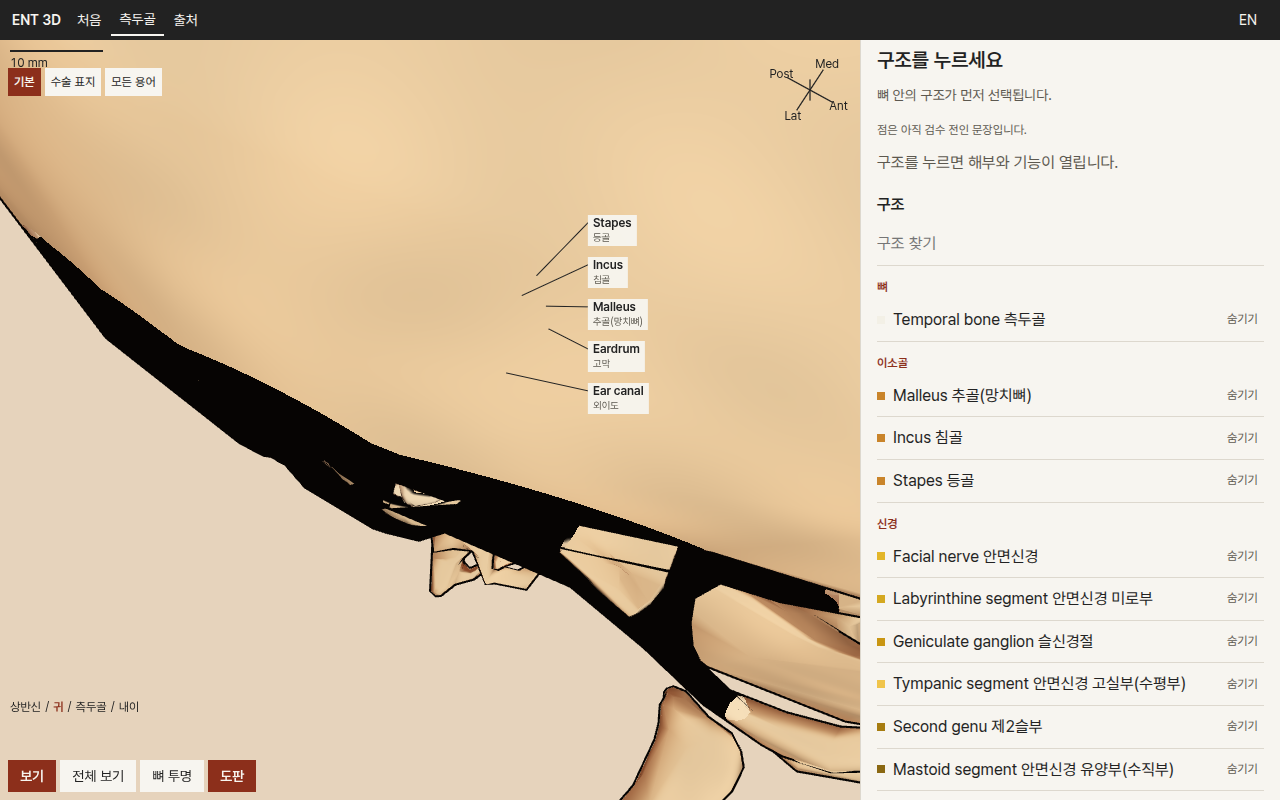
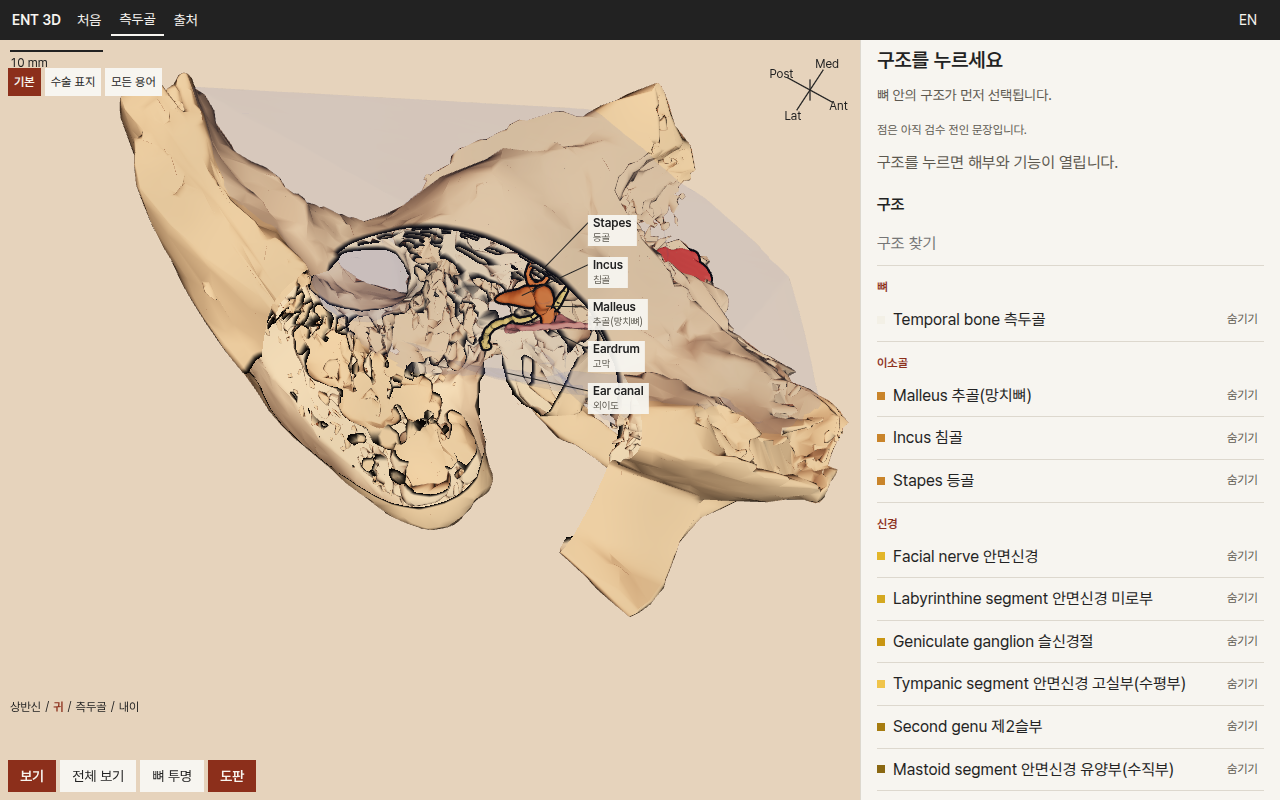
Hide the head skull while the specimen is shown.
The 46 mm clip left the desktop bone view looking into the skull interior. The skull stays hidden in those views, as before that clip, and the clip uniforms are gone.

diff --git a/src/shared/viewer/Viewer.ts b/src/shared/viewer/Viewer.ts
@@ -159,8 +159,6 @@ export class EntViewer {
   private flashUntil = 0;
   private upperBody: THREE.Mesh | null = null;
   private skullLayer: THREE.Mesh | null = null;
-  private temporalCenter = new THREE.Vector3();
-  private temporalRadius = { value: 0 };
   private skinMesh: THREE.Mesh | null = null;
   private style: RenderStyle = 'atlas';
   private hullsOn = true;
@@ -912,7 +910,6 @@ export class EntViewer {
 
   private refreshLook(): void {
     for (const record of this.records.values()) this.applyLook(record);
-    this.syncSkullTemporalClip();
     this.syncCallouts();
     this.invalidate();
   }
@@ -1332,8 +1329,8 @@ export class EntViewer {
       const mesh = found[0];
       if (!mesh) return;
       const id = kind === 'auricle' ? 'upper-body' : kind === 'skin' ? 'skin' : 'skull-layer';
-      const cutScale = kind === 'skull' ? 0 : kind === 'auricle' ? 0.22 : 1;
-      mesh.material = this.makeEntryMaterial(id, kind === 'auricle' ? '#E7A888' : kind === 'skin' ? '#E7A888' : '#F6D9A4', cutScale, false);
+      const cutScale = kind === 'skull' ? 0.98 : kind === 'auricle' ? 0.22 : 1;
+      mesh.material = this.makeEntryMaterial(id, kind === 'auricle' ? '#E7A888' : kind === 'skin' ? '#E7A888' : '#F6D9A4', cutScale, kind === 'skull');
       mesh.matrixAutoUpdate = false;
       mesh.updateMatrix();
       if (!mesh.geometry.boundingBox) mesh.geometry.computeBoundingBox();
@@ -1420,30 +1417,9 @@ export class EntViewer {
     const open = this.cutRadius.value > 8;
     if (this.skinMesh) this.skinMesh.visible = !open;
     if (this.upperBody) this.upperBody.visible = !open;
-    this.syncSkullTemporalClip();
+    // The skull sits inside the skin. Its outline shows through the occiput crease, so it stays hidden.
+    if (this.skullLayer) this.skullLayer.visible = false;
     this.paintAuricle(open);
-  }
-
-  /** Hide the skull's own temporal bone wherever the specimen bone is on screen. */
-  private syncSkullTemporalClip(): void {
-    const bone = this.records.get('bone');
-    const showSpecimen = Boolean(bone?.object.visible);
-    if (this.skullLayer) this.skullLayer.visible = showSpecimen;
-    if (!showSpecimen || !bone) {
-      this.temporalRadius.value = 0;
-      return;
-    }
-    if (!this.eacMm) {
-      this.temporalRadius.value = 0;
-      return;
-    }
-    this.temporalCenter.set(this.eacMm[0] + this.offset[0], this.eacMm[1] + this.offset[1], this.eacMm[2] + this.offset[2]);
-    this.temporalRadius.value = 46;
-    const material = this.skullLayer?.material;
-    if (material instanceof THREE.ShaderMaterial) {
-      if (material.uniforms.uTemporalCenter) material.uniforms.uTemporalCenter.value = this.temporalCenter;
-      if (material.uniforms.uTemporalRadius) material.uniforms.uTemporalRadius.value = this.temporalRadius.value;
-    }
   }
 
   renderStyle(): RenderStyle {
@@ -1564,8 +1540,6 @@ export class EntViewer {
         detail: atlasDetail(id),
         reveal,
       });
-      material.uniforms.uTemporalCenter = { value: this.temporalCenter };
-      material.uniforms.uTemporalRadius = this.temporalRadius;
       if (id === 'skin') {
         material.polygonOffset = true;
         material.polygonOffsetFactor = -2;
@@ -1592,17 +1566,14 @@ export class EntViewer {
       shader.uniforms.uCutRadius = radius;
       shader.uniforms.uCutScale = { value: cutScale };
       shader.uniforms.uReveal = { value: reveal ? 1 : 0 };
-      shader.uniforms.uTemporalCenter = { value: this.temporalCenter };
-      shader.uniforms.uTemporalRadius = this.temporalRadius;
       shader.vertexShader = shader.vertexShader
         .replace('#include <common>', '#include <common>\nvarying vec3 vEntWorld;')
         .replace('#include <project_vertex>', '#include <project_vertex>\nvEntWorld = (modelMatrix * vec4(transformed, 1.0)).xyz;');
       shader.fragmentShader = shader.fragmentShader
-        .replace('#include <common>', '#include <common>\nvarying vec3 vEntWorld;\nuniform vec3 uCutCenter;\nuniform float uCutRadius;\nuniform float uCutScale;\nuniform float uReveal;\nuniform vec3 uTemporalCenter;\nuniform float uTemporalRadius;')
+        .replace('#include <common>', '#include <common>\nvarying vec3 vEntWorld;\nuniform vec3 uCutCenter;\nuniform float uCutRadius;\nuniform float uCutScale;\nuniform float uReveal;')
         .replace(
           '#include <dithering_fragment>',
           `float entDist = distance(vEntWorld, uCutCenter);
-          if (uTemporalRadius > 1.0 && distance(vEntWorld, uTemporalCenter) < uTemporalRadius) discard;
           if (uReveal > 0.5) {
             if (uCutRadius < 1.0 || entDist > uCutRadius * max(uCutScale, 0.01)) discard;
           } else if (uCutScale > 0.0 && uCutRadius > 0.0 && entDist < uCutRadius * uCutScale) discard;

diff --git a/src/shared/viewer/netter-material.ts b/src/shared/viewer/netter-material.ts
@@ -121,8 +121,6 @@ uniform vec3 uCutCenter;
 uniform float uCutRadius;
 uniform float uCutScale;
 uniform float uReveal;
-uniform vec3 uTemporalCenter;
-uniform float uTemporalRadius;
 uniform float uViewClip;
 uniform float uViewRadius;
 uniform vec3 uEndA;
@@ -182,7 +180,6 @@ void main() {
       if (along > 0.5 && along < axisLen + uViewRadius * 0.45 && radial < uViewRadius) discard;
     }
   }
-  if (uTemporalRadius > 1.0 && distance(vWorld, uTemporalCenter) < uTemporalRadius) discard;
   float dist = distance(vWorld, uCutCenter);
   if (uReveal > 0.5) {
     if (uCutRadius < 1.0 || dist > uCutRadius * max(uCutScale, 0.01)) discard;
@@ -271,8 +268,6 @@ export function createAtlasMaterial(options: {
       uCutRadius: options.cut.radius,
       uCutScale: { value: options.cutScale },
       uReveal: { value: options.reveal ? 1 : 0 },
-      uTemporalCenter: { value: new THREE.Vector3() },
-      uTemporalRadius: { value: 0 },
       uViewClip: { value: 0 },
       uViewRadius: { value: 0 },
       uEndA: { value: new THREE.Vector3() },
